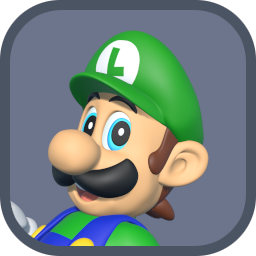
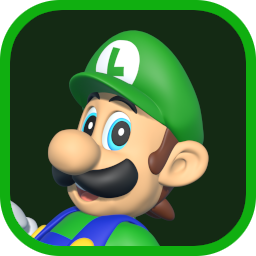
More sections, better colours

diff --git a/portfolio_site/index.html b/portfolio_site/index.html
@@ -24,38 +24,17 @@
                 <a href="#RentalDerby"><img src="resources/projects/rental_derby/hotbar_icon.png" class="project_hotbar_project" /></a>
                 <a href="#SoundWave"><img src="resources/projects/2022_soundwave/hotbar_icon.png" class="project_hotbar_project" /></a>
                 <a href="#LIsReal"><img src="resources/projects/LisReal/hotbar_icon.png" class="project_hotbar_project" /></a>
-                <a href="#ForgeEngine"><img src="resources/projects/forge_engine/hotbar_icon.png" class="project_hotbar_project" /></a>
                 <a href="#LifeLynk"><img src="resources/projects/lifelynk/hotbar_icon.png" class="project_hotbar_project" /></a>
+                <a href="#ForgeEngine"><img src="resources/projects/forge_engine/hotbar_icon.png" class="project_hotbar_project" /></a>
             </div>
             <div style="height: 400px;"></div>
 
-
-            <!-- <div class="card centered small_card" style="width: 300px;">
-                <img src="resources/icon.png" class="card_icon" />
-                <span class="card_text_header">SoundWave</span>
-                <span class="card_text">A beat-based 2D-platformer</span>
-            </div> -->
-
-            <!-- <h3 class="content">Showcase</h3> -->
-
-
-            <!-- <img src="resources/projects/2022_soundwave/logo.png" id="soundwave_logo" />
-            <div class="strip" id="soundwave_strip">
-                <div class="soundwave_strip_container">
-                    <audio id="collect_key_audio">
-                        <source src="resources/projects/2022_soundwave/collectkey.mp3" type="audio/mpeg">
-                        Your browser does not support the audio element.
-                    </audio>
-
-                    <div class="centered" style="margin-top: 20px; margin-bottom: 40px;">
-                        Collect all the <em>clefkeys</em> to unlock the itch.io link!
-                    </div>
-
-                    <p class="strip_text">
-                        SoundWave is a 2D side-scrolling platformer with a <em>rhythm game</em> twist! Dodge obstacles and anticipate hazards by paying close attention to the beat of the song.
-                    </p>
-
-                    <p class="strip_text">
+            <div class="new_strip" id="AboutMe">
+                <div class="centered" style="margin-top: 20px;">
+                    About Me
+                </div>
+                <div class="new_strip_box new_strip_box_centered">
+                    <p class="new_text new_text_centered">
                         This game was based off of our entry for Global Games Jam 2017 with the theme "<em>waves</em>". 
                         Our original game was about navigating rhythm based obstacles while guiding your AI companion, 
                         however for the full release we decided it would be better to focus on just one of the mechanics
@@ -63,58 +42,27 @@
                         from the game.
                     </p>
 
-                    <br/>
-                    <br/>
-                    <br/>
-                    <br/>
-
-                    <p class="strip_text_right">
-                        We used <em>Unity</em> and <em>C#</em> to reimagine the project. I was in charge
-                        of developing the character controller as well as the rhythm mechanics. I worked with our designer
-                        to implement these new mechanics so that the rhythm objects could be tweaked from the inspector
-                        without having to write additional code to create new behaviours, allowing levels to be made
-                        far more easily.
+                    <p class="new_text new_text_centered">
+                        This game was based off of our entry for Global Games Jam 2017 with the theme "<em>waves</em>". 
+                        Our original game was about navigating rhythm based obstacles while guiding your AI companion, 
+                        however for the full release we decided it would be better to focus on just one of the mechanics
+                        so that we develop it further. Unfortunately this meant that the companion character was dropped
+                        from the game.
                     </p>
-                    <p class="strip_text_right">
-                        As hobbyist developers with day jobs our biggest struggle was time-management. We initially
-                        planned to finish the project within a month, but it ended up taking four months. Around the end 
-                        of month 3 we decided that our current relaxed approach wasn't working, so we created a <em>Trello</em> 
-                        board and scheduled time to work together in the evenings. In the following month we made considerable
-                        progress, and a portion of that time was spent polishing and bug-fixing before release.
-                    </p>
-
-                    <div id="clefkeys">
-                        <img src="resources/projects/2022_soundwave/clef_key.png" onclick="collect_key(1)" id="clefkey1" class="clefkey"/>
-                        <img src="resources/projects/2022_soundwave/clef_key.png" onclick="collect_key(2)" id="clefkey2" class="clefkey"/>
-                        <img src="resources/projects/2022_soundwave/clef_key.png" onclick="collect_key(3)" id="clefkey3" class="clefkey"/>
-                        <img src="resources/projects/2022_soundwave/clef_key.png" onclick="collect_key(4)" id="clefkey4" class="clefkey"/>
-                        <img src="resources/projects/2022_soundwave/clef_key.png" onclick="collect_key(5)" id="clefkey5" class="clefkey"/>
-                    </div>
-
-                    <div id="padlock_container" onclick="click_padlock()">
-                        <img src="resources/projects/2022_soundwave/padlock_locked.png" class="padlock" />
-                        <img src="resources/projects/2022_soundwave/padlock_fill.png" id="padlock_fill" />
-                    </div>
-
-                    <iframe width="592" height="333" class="trailer_left trailer_bottom outline" src="https://www.youtube.com/embed/i31BTBffe8I" title="YouTube video player" frameborder="0" allow="accelerometer; autoplay; clipboard-write; encrypted-media; gyroscope; picture-in-picture" allowfullscreen></iframe>
-                    <img class="trailer_right trailer_top outline" width="480px" src="resources/projects/2022_soundwave/screenshot.png" />
                 </div>
             </div>
 
-			<div style="height: 350px;"></div>
-
-            <img src="resources/projects/2022_soundwave/logo.png" id="soundwave_logo" />
-            <div class="strip" id="lisreal_strip">
-                <div class="soundwave_strip_container">
-                    <div class="centered" style="margin-top: 20px; margin-bottom: 40px;">
-                        A mod for SM64PC. Download the patch <em><a href="https://cdn.discordapp.com/attachments/716459185230970880/754856963980132473/L_is_real_2401_by_keanine.patch">here</a></em>!
-                    </div>
-
-                    <p class="strip_text">
+            <h3>Rental Demolition Derby</h3>
+            <div class="new_strip" id="RentalDerby">
+                <div class="centered" style="margin-top: 20px;">
+                    Collect all the <em>clefkeys</em> to unlock the itch.io link!
+                </div>
+                <div class="new_strip_box">
+                    <p class="new_text new_text_left">
                         SoundWave is a 2D side-scrolling platformer with a <em>rhythm game</em> twist! Dodge obstacles and anticipate hazards by paying close attention to the beat of the song.
                     </p>
 
-                    <p class="strip_text">
+                    <p class="new_text new_text_left">
                         This game was based off of our entry for Global Games Jam 2017 with the theme "<em>waves</em>". 
                         Our original game was about navigating rhythm based obstacles while guiding your AI companion, 
                         however for the full release we decided it would be better to focus on just one of the mechanics
@@ -122,64 +70,27 @@
                         from the game.
                     </p>
 
-                    <br/>
-                    <br/>
-                    <br/>
-                    <br/>
-
-                    <p class="strip_text_right">
+                    <iframe class="new_media new_media_left outline" src="https://www.youtube.com/embed/i31BTBffe8I" title="YouTube video player" frameborder="0" allow="accelerometer; autoplay; clipboard-write; encrypted-media; gyroscope; picture-in-picture" allowfullscreen></iframe>
+                </div>
+                <div class="new_strip_box new_strip_box2">
+                    <img class="new_media new_media_right outline" src="resources/projects/2022_soundwave/screenshot.png" />
+                    <p class="new_text new_text_right">
                         We used <em>Unity</em> and <em>C#</em> to reimagine the project. I was in charge
                         of developing the character controller as well as the rhythm mechanics. I worked with our designer
                         to implement these new mechanics so that the rhythm objects could be tweaked from the inspector
                         without having to write additional code to create new behaviours, allowing levels to be made
                         far more easily.
                     </p>
-                    <p class="strip_text_right">
+                    <p class="new_text new_text_right">
                         As hobbyist developers with day jobs our biggest struggle was time-management. We initially
                         planned to finish the project within a month, but it ended up taking four months. Around the end 
                         of month 3 we decided that our current relaxed approach wasn't working, so we created a <em>Trello</em>
                         board and scheduled time to work together in the evenings. In the following month we made considerable
                         progress, and a portion of that time was spent polishing and bug-fixing before release.
                     </p>
-
-                    <iframe width="480" height="270" class="trailer_left trailer_bottom outline" src="https://www.youtube.com/embed/WhPowJWFfUg" title="YouTube video player" frameborder="0" allow="accelerometer; autoplay; clipboard-write; encrypted-media; gyroscope; picture-in-picture" allowfullscreen></iframe>
-                    <img class="trailer_right trailer_top outline" width="480px" src="resources/projects/2022_soundwave/screenshot.png" />
                 </div>
             </div>
-			<div style="height: 350px;"></div> -->
-
-            <!-- <div class="strip gallery_strip">
-                <div class="gallery content">
-                    <a href="http://www.keanencollins.co.uk/Projects/Games/LisReal.html" class="gallery_card">
-                        <img src="resources/projects/LisReal.png" class="card_projecticon rounded" draggable="false" />
-                    </a>
-                    <a href="http://www.keanencollins.co.uk/Projects/Games/LisReal.html" class="gallery_card">
-                        <img src="resources/projects/LisReal.png" class="card_projecticon rounded" draggable="false" />
-                    </a>
-                    <a href="http://www.keanencollins.co.uk/Projects/Games/LisReal.html" class="gallery_card">
-                        <img src="resources/projects/LisReal.png" class="card_projecticon rounded" draggable="false" />
-                    </a>
-                    <a href="http://www.keanencollins.co.uk/Projects/Games/LisReal.html" class="gallery_card">
-                        <img src="resources/projects/LisReal.png" class="card_projecticon rounded" draggable="false" />
-                    </a>
-                    <a href="http://www.keanencollins.co.uk/Projects/Games/LisReal.html" class="gallery_card">
-                        <img src="resources/projects/LisReal.png" class="card_projecticon rounded" draggable="false" />
-                    </a>
-                    <a href="http://www.keanencollins.co.uk/Projects/Games/LisReal.html" class="gallery_card">
-                        <img src="resources/projects/LisReal.png" class="card_projecticon rounded" draggable="false" />
-                    </a>
-                </div>
-            </div> -->
-
-            <div class="new_strip">
-                <div class="centered" style="margin-top: 20px;">
-                    About Me
-                </div>
-                <div class="new_strip_box">
-                    
-                </div>
-            </div>
-
+			
             <img src="resources/projects/2022_soundwave/logo.png" id="soundwave_logo" />
             <div class="new_strip" id="SoundWave">
                 <div class="centered" style="margin-top: 20px;">
@@ -219,7 +130,7 @@
                 </div>
             </div>
 
-            <img src="resources/projects/2022_soundwave/logo.png" id="soundwave_logo" />
+            <h3>L is Real 2401</h3>
             <div class="new_strip" id="LIsReal">
                 <div class="centered" style="margin-top: 20px;">
                     Collect all the <em>clefkeys</em> to unlock the itch.io link!

diff --git a/portfolio_site/style.css b/portfolio_site/style.css
@@ -162,7 +162,7 @@ h2
 h3
 {
     text-align: center;
-    font-size: 30px;
+    font-size: 40px;
     margin: 20 20 15 20;
     --border-bottom: solid 3px #aeaeae;
 }
@@ -415,10 +415,31 @@ em
 }
 
 /* New */
+#AboutMe
+{
+    background-color: #11111199;
+    border-color: #FFFFFF;
+}
+#AboutMe em
+{
+    color: #e74c3c;
+}
+
+
+#RentalDerby
+{
+    background-color: #32190299;
+    border-color: #d86c04;
+}
+#RentalDerby em
+{
+    color: #d86c04;
+}
+
 
 #SoundWave
 {
-    background-color: #1a173e;
+    background-color: #1a173e99;
     border-color: #b800ff;
 }
 #SoundWave em
@@ -428,8 +449,8 @@ em
 
 #LIsReal
 {
-    background-color: #4a5462;
-    border-color: green;
+    background-color: #142a1499;
+    border-color: #10af10;
 }
 #LIsReal em
 {
@@ -481,6 +502,13 @@ em
     text-align: right;
 }
 
+.new_strip_box_centered
+{
+    float: none;
+	margin-left: auto;
+	margin-right: auto;
+}
+
 .new_strip_box2
 {
     text-align: left;
@@ -521,4 +549,9 @@ em
 {
     float: left;
     clear: left;
+}
+
+.new_text_centered
+{
+    max-width: 650px;
 }
